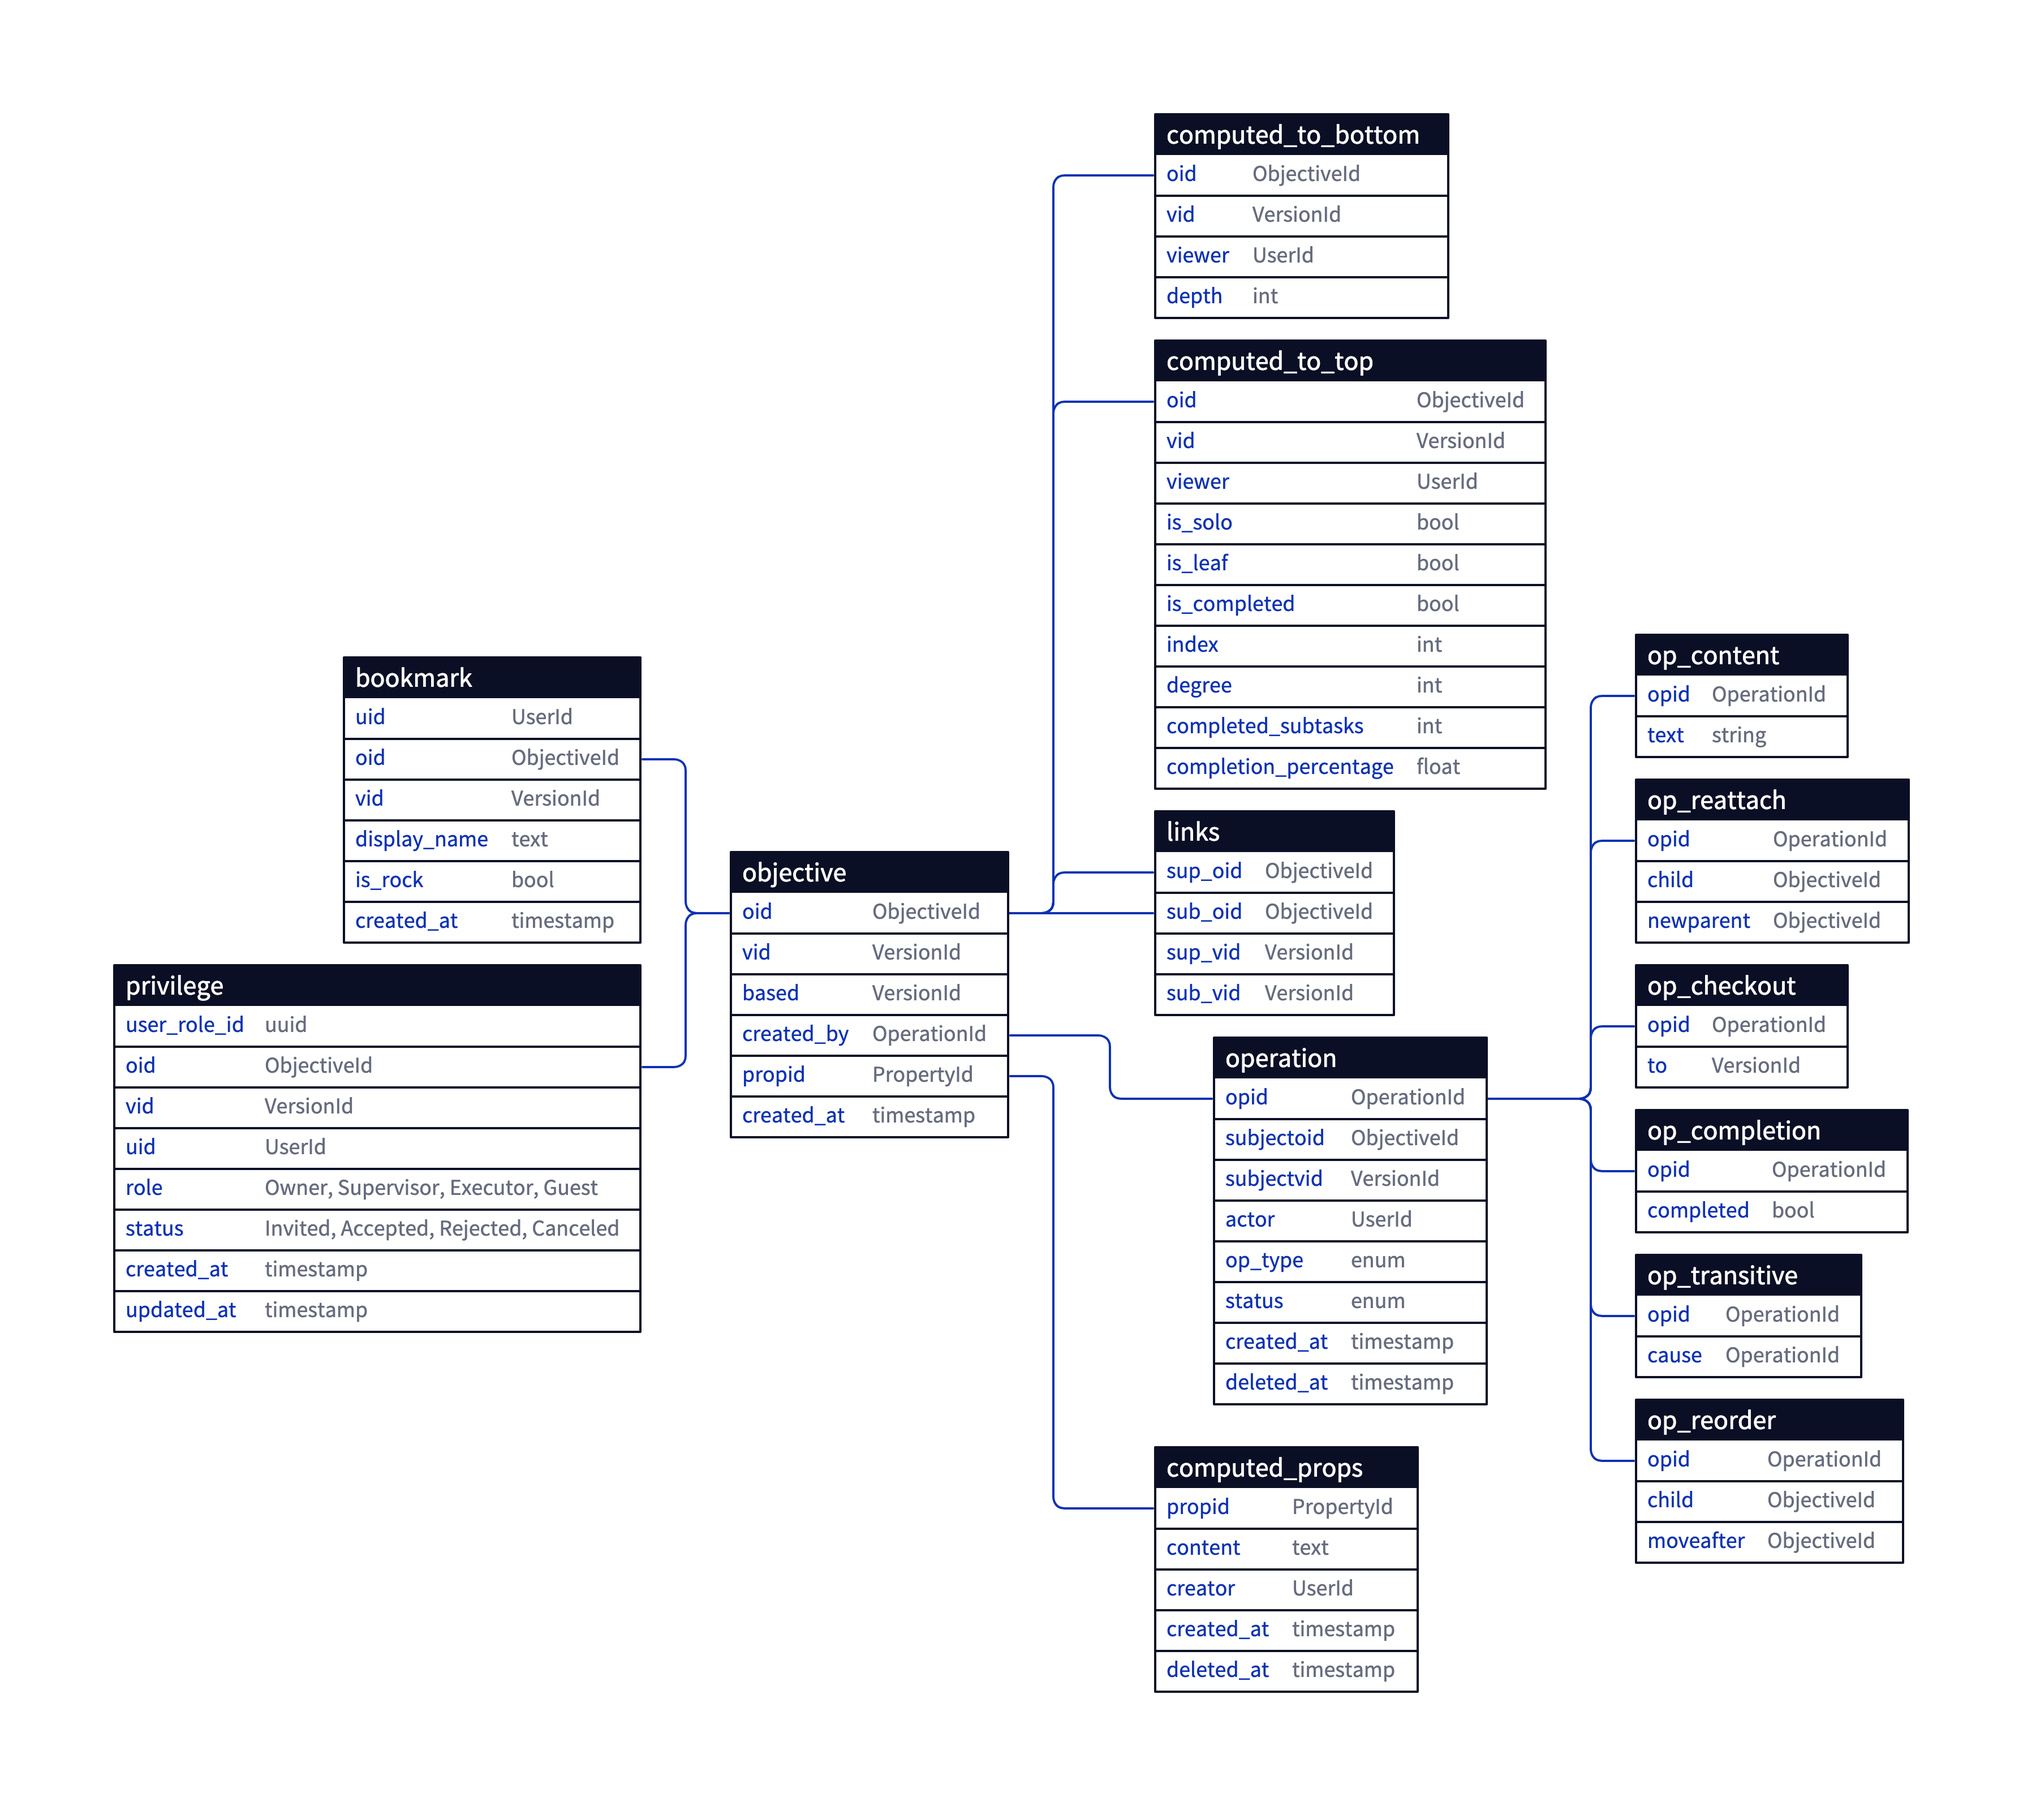
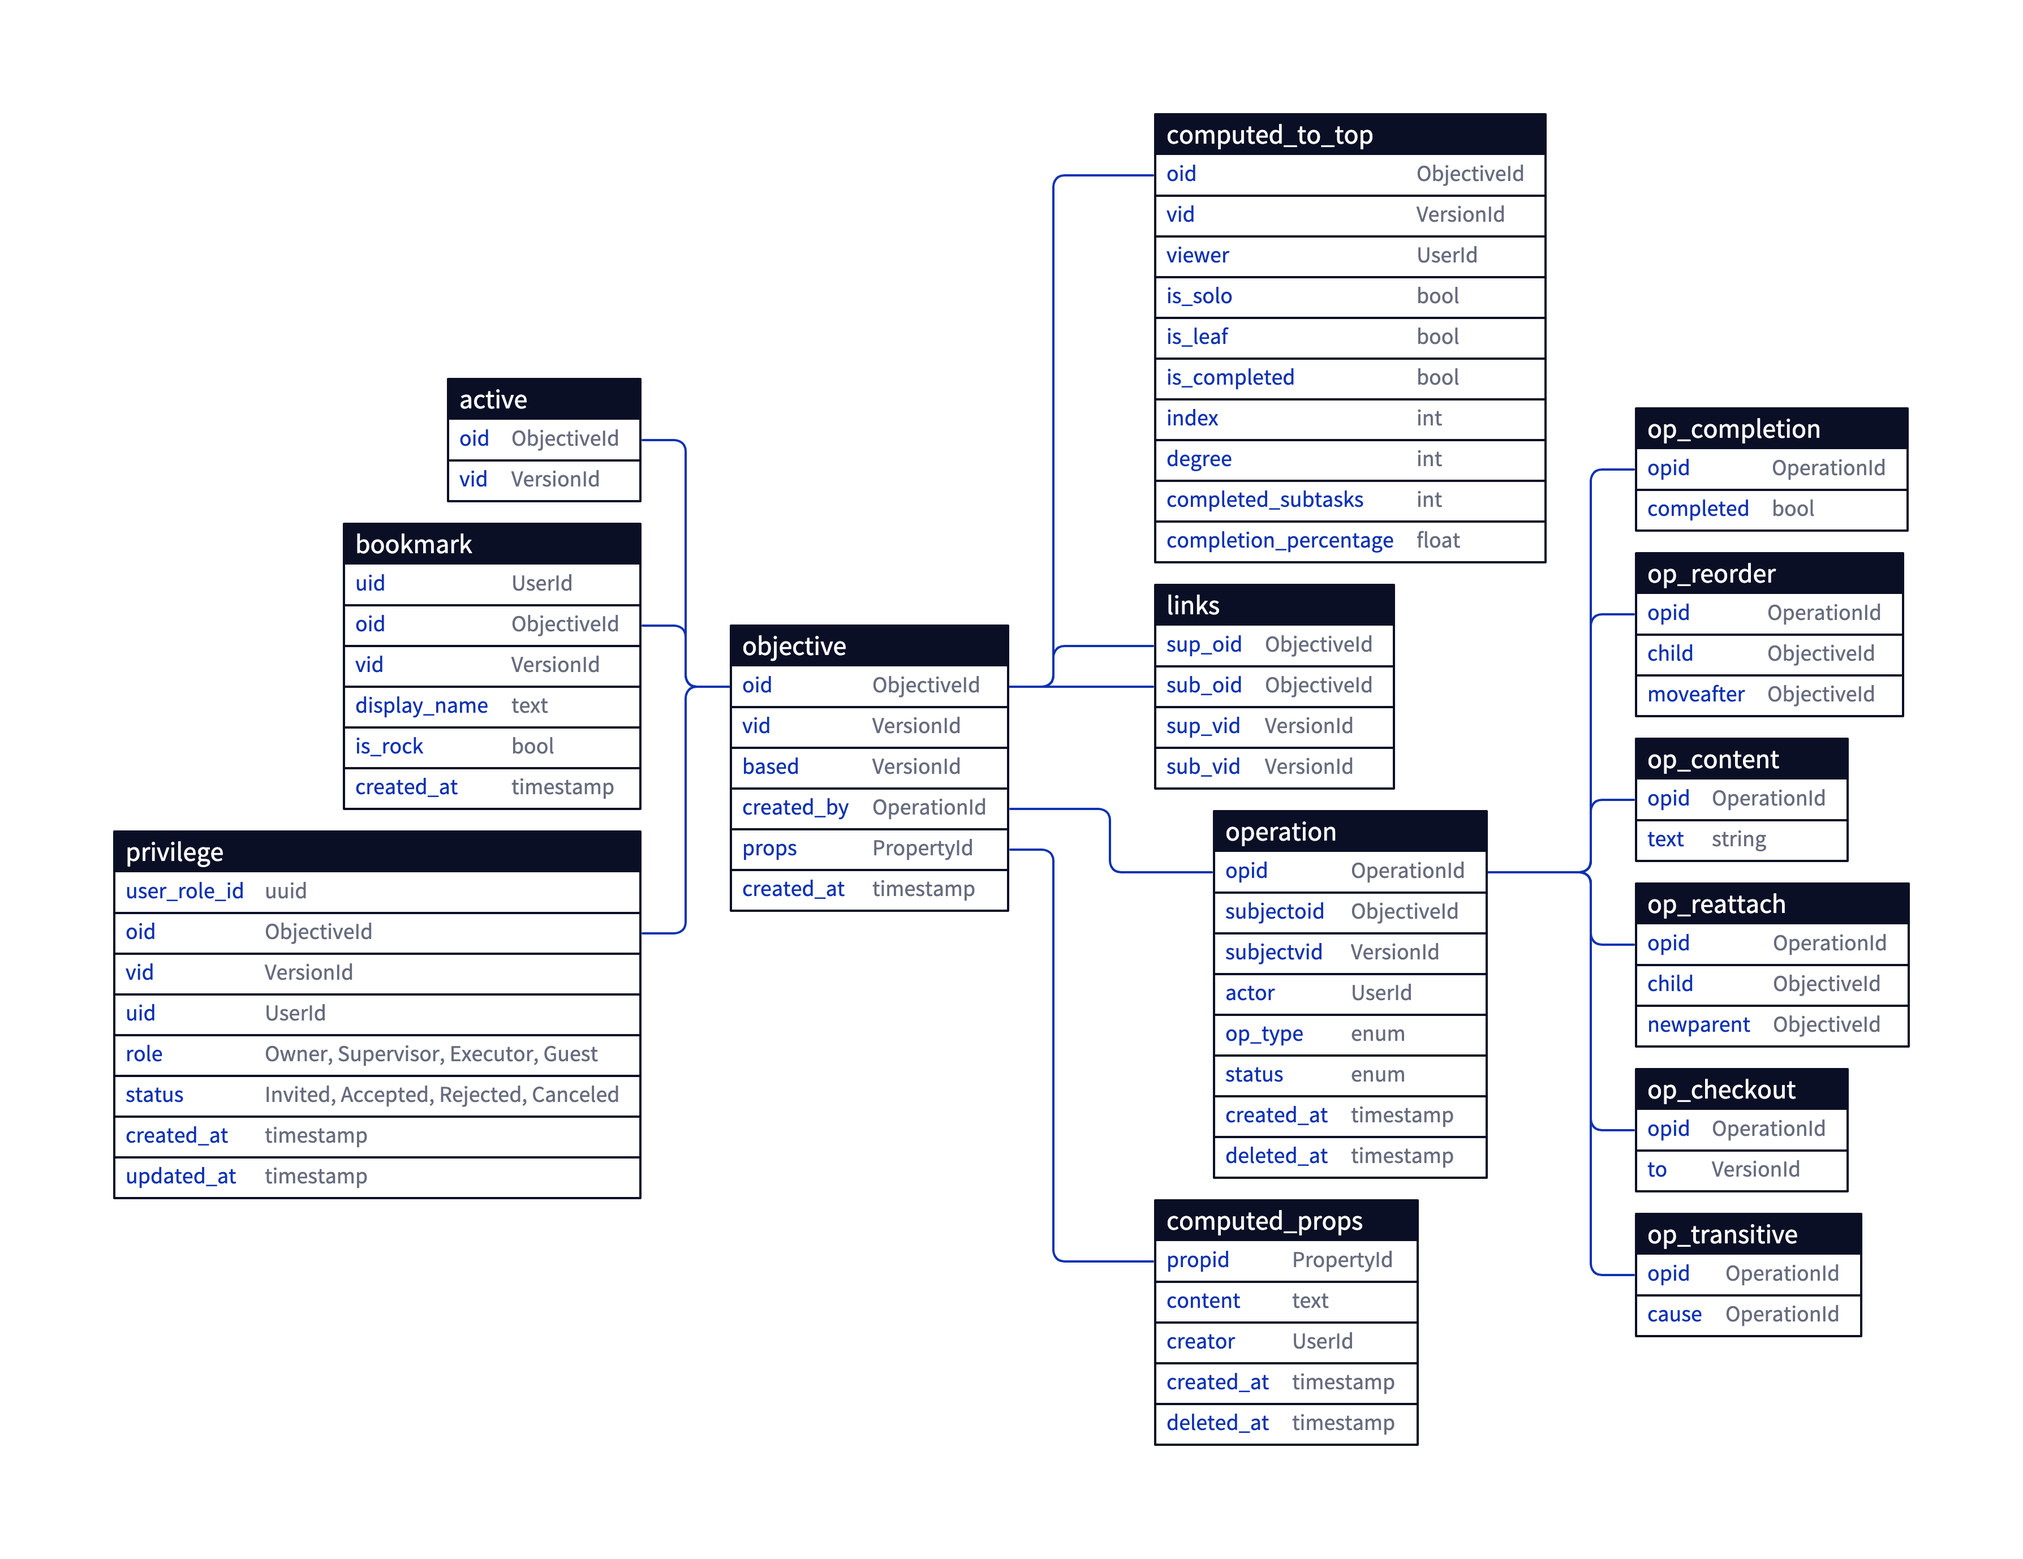
docs/database: completes the redesign aims to address `communal lands` problem, improves consistency in readme file and add sections. + adds `active` table + removes `computed_to_bottom` as it is impossible to mark what version of the document assumed when they are computed. + removes `branching` di

Changed region(s): [[0.3414, 0.0624, 0.776, 0.9361], [0.0621, 0.2184, 0.3414, 0.7801], [0.807, 0.2496, 0.9622, 0.8737]]

diff --git a/docs/database/README.md b/docs/database/README.md
@@ -1,25 +1,35 @@
 # Logbook database docs
 
-## Document model
+## Document model: Versioned objectives
 
-### Versioned documents
-
-![](branching.png)
-
-### Versioned trees
+![](simplified.png)
 
 Design constraints
 
-- Balance the time complexity and storage need between: 
-  - **write**: saving changes into database for the next version, 
-  - **read**: time to build a part of the document at any version
-- Taking full snapshots of document is impossible (So, event-sourcing)
-- Collaborators should be able to download only the changed parts rather than fully download or upload whole document at each sending/receiving change.
+- **Scale**:
+  - Balance the time complexity and storage need between: 
+    - **write**: saving updates to db
+    - **read**: building UI view for any version of a tree
+- **Storage**: 
+  - Taking full snapshots of document is impossible (So, event-sourcing)
+- **Business**: 
+  - `Documents` (trees) are only isolated by their root nodes. Any two document can share some subtrees (ownership is exclusive).
+  - `Collaborator`s should be able to download only the changed parts rather than fully download or upload whole document at each sending/receiving change.
+  - User should be free to `checkout` any version of any objective any time. 
+  - `Checkouts` effect itself + subtree, and nothing else (ascendants, siblings).
+  - Objectives get `properties` depending on either user-input or derived-statistics which their value depend on the subtree:
+    - When an objective gets its `version` changed, `ascendants` should notice that to enable recalculation of `statistics` (`computed_to_top`, `computed_to_bottom`) and store statistics for any version of the tree isolatedly. (Never show outdated statistics to user)
+  - `Collaboration config` (list of collaborators and permissions) of each objective is versioned independently from the content of objective and its subtree.
 
-Design
+Key points of design:
 
-- A content change in an objective gets saved as a new row in `objective` table with a new `vid` and same `oid`.
-- Starting from the first parent of the updated objective, each ancestor gets a new row in the table with same `oid` but new `vid`.
+- Objectives are individually versioned.
+
+Design:
+
+- Update of an objective saved as a new row `objective` table. The row gets the same `oid` but a newly generated `vid`.
+- Updates are promoted to ascendants, saved as `op_transitive`.
+- Promoted ascendant gets links to unchanged siblings. (therefore: Communal lands)
 - Objectives and links are needed to be immutable. Because of when they are siblings of updated objectives they will be referred from different versions of the document in `link` table.
 
 Pros:
@@ -27,14 +37,47 @@ Pros:
 - Balanced read/writes: 
   - Storage effective
   - Checkouts are fast (compared to event-sourcing)
+- Allows separating tables:
+  - One server:
+    - Objective version -> version of props and privileges 
+    - preciding versions
+  - One server: 
+    - Props
+    - Statistics
+    - Operations
 
 Cons:
 
 - Implementation complexity.
 - Calculated props are only stored for the active version.
 - View builder needs to know which versions are ahead of the active version after checking out to previous version, which might not scale well for big version history.
+- Needs caching of views built for user-version since the information related to build views are distributed into tables.
 
-![](simplified.png)
+### Promoting Updates
+
+- Ascendants are individually versioned.
+- Updates proprages. They trigger version iteration on the parent. Only the updated parent can link to new version of the objective.
+- The siblings which are not updated, gets linked by the new version of parent, which is the reason of the `objective`'s being immutable and why `active` table exist.
+
+### Communal lands and immutability
+
+As the document model aims for the storage efficiency, unchanged parts of the tree (siblings, subtree/descendants etc.) never gets duplicated when an update occur for an objective. Thus, in the lifecycle of objectives, there is frequently occuring issue that any objective's any version may be referred by multiple version of the ascendants. 
+
+Asserting immutability only solves the issue partially. But promoting each update to the right (active) ascendant is still crucial.
+
+#### Active versions
+
+Problem:
+
+- As a result of any checkout, subtree gets referenced by current and last versions of the objective. So, we can't decide which version of parent we need to update with the updated subobjective.
+
+Solution:
+
+- Maintaining a table of `active_version` which consists by mutable rows pointing the active version of every checkout performed objective. 
+
+- When an update is received on **direct child** of an checkout applied objective, the table is the direct source to tell which version receive the update.
+
+- When an update is received on a descendant of a previously checked out objective, the method needs to traceback the link tree until it finds an ascendant has its active version marked in the table.
 
 ## View builder
 
@@ -55,8 +98,6 @@ Design:
 -	View builder should start comparing rows with only the latest version number 
 -	As the parent node's version can never be older than its children's, view builder can pop the version numbers from version array when they are ahead of the held one, as it dig deeper. So, it can also postpone asking for the whole of version array, as it can fetch previous versions as it dig deeper and see another version than it holds
 -	View builder may leverage `created_at` columns to quickly filter out ahead rows.
-
-
 
 ## Distributed transactions
 
